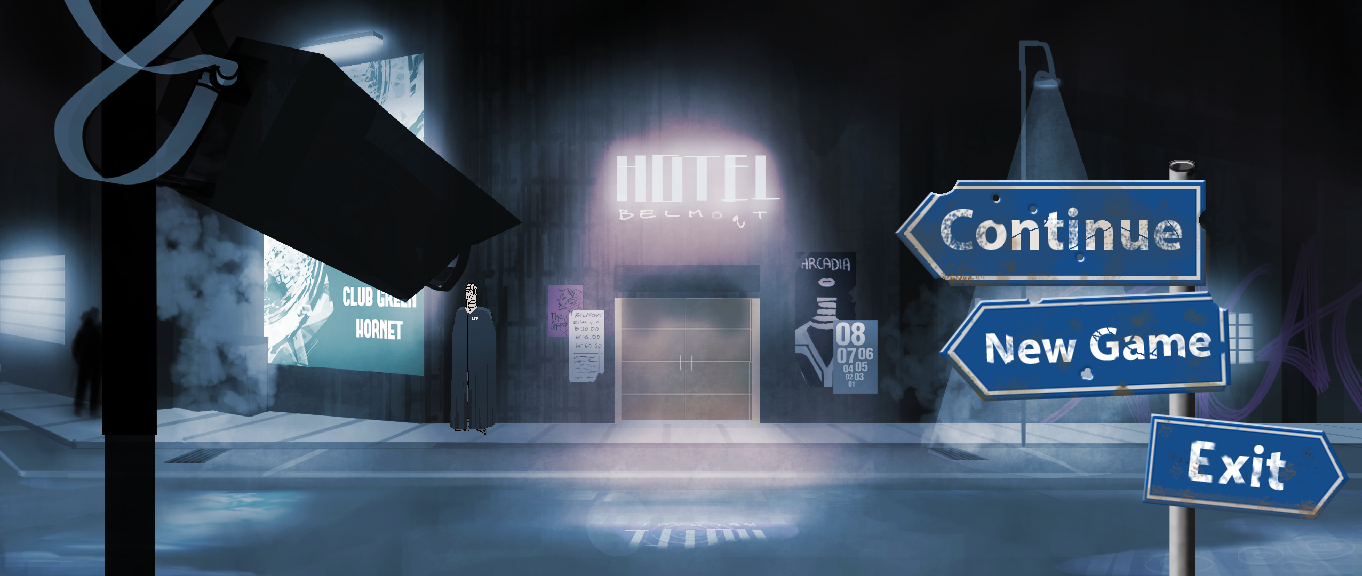
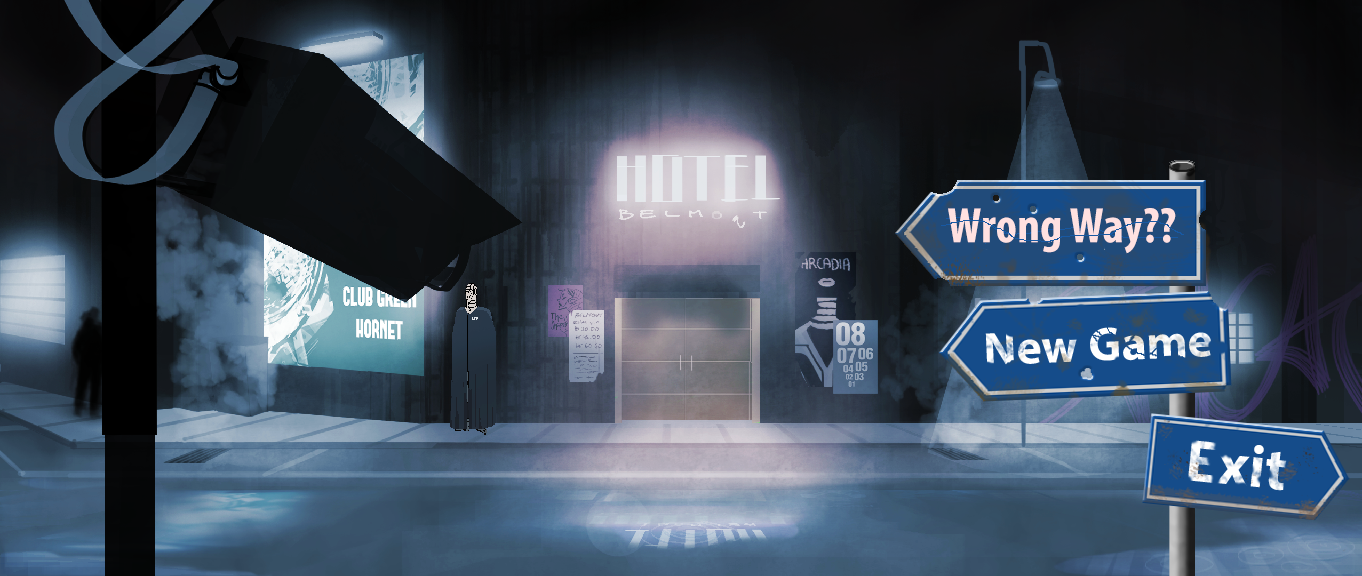
Menu updated

Changed region(s): [[0.6784, 0.3438, 0.8634, 0.4375]]

diff --git a/Forgotten/Forgotten/MainMenu.cpp b/Forgotten/Forgotten/MainMenu.cpp
@@ -1,15 +1,32 @@
 #include "MainMenu.h"
 
-MainMenu::MainMenu() : m_over(false)
+MainMenu::MainMenu(MouseHandler& mouse) : m_newGame(false), m_exit(false), m_continue(false), m_mouse(mouse)
 {
 	LoadImage();
 	//// Set the view size
 	m_view.setSize(1024, 576);
 	m_view.setCenter(855, 288);
+	SetRects();
 }
 
-bool MainMenu::IsOver(){
-	return m_over;
+bool MainMenu::NewGame()
+{
+	return m_newGame;
+}
+
+bool MainMenu::Exit()
+{
+	return m_exit;
+}
+
+bool MainMenu::Continue()
+{
+	return m_continue;
+}
+
+void MainMenu::IsOver(int i)
+{
+
 }
 
 void MainMenu::LoadImage()
@@ -18,14 +35,11 @@ void MainMenu::LoadImage()
 	m_sprite.setTexture(m_texture);
 }
 
-sf::IntRect MainMenu::GetRect()
+void MainMenu::SetRects()
 {
-	m_shape.setFillColor(sf::Color::Blue);
-	m_shape.setSize(sf::Vector2f(200, 100));
-	m_shape.setPosition(400.f, 200.f);
-	sf::IntRect rect = sf::IntRect(m_shape.getPosition().x, m_shape.getPosition().y, m_shape.getSize().x, m_shape.getSize().y);
-	m_shape.setTextureRect(rect);
-	return m_shape.getTextureRect();
+	m_newGameRect = sf::IntRect(950, 300, 270, 100);
+	m_exitRect = sf::IntRect(1150, 440, 200, 80);
+	m_continueRect = sf::IntRect(930, 180, 270, 100);
 }
 
 void MainMenu::Render(sf::RenderWindow& window)
@@ -33,14 +47,17 @@ void MainMenu::Render(sf::RenderWindow& window)
 	// Clear the screen 
 	window.clear(sf::Color(0, 0, 0));
 
-	IsOverSign(window);
+
+	window.setMouseCursorVisible(false);
 
 	// Set the game view again
 	window.setView(m_view);
 
 	window.draw(m_sprite);
 
-	window.draw(m_shape);
+	m_mouse.Render();
+
+	IsOverSign(window);
 
 	// Display all rendered items
 	window.display();
@@ -48,14 +65,25 @@ void MainMenu::Render(sf::RenderWindow& window)
 
 void MainMenu::Process()
 {
-	GetRect();
+	m_mouse.SetCursor(0);
+	m_mouse.Update();
 }
 
 void MainMenu::IsOverSign(sf::RenderWindow& window)
 {
-	if(m_shape.getTextureRect().contains(window.convertCoords(sf::Mouse::getPosition(window), m_view).x, window.convertCoords(sf::Mouse::getPosition(window), m_view).y)){
-		m_over = true;
+	if(m_newGameRect.contains(window.convertCoords(sf::Mouse::getPosition(window), m_view).x, window.convertCoords(sf::Mouse::getPosition(window), m_view).y) && m_mouse.mouse1WasPressed()){
+		m_newGame = true;
 	}else{
-		m_over = false;
+		m_newGame = false;
 	}
+	if(m_exitRect.contains(window.convertCoords(sf::Mouse::getPosition(window), m_view).x, window.convertCoords(sf::Mouse::getPosition(window), m_view).y) && m_mouse.mouse1WasPressed()){
+		m_exit = true;
+	}else{
+		m_exit = false;
+	}
+	//if(m_continueRect.contains(window.convertCoords(sf::Mouse::getPosition(window), m_view).x, window.convertCoords(sf::Mouse::getPosition(window), m_view).y)){
+	//	m_continue = true;
+	//}else{
+	//	m_continue = false;
+	//}
 }

diff --git a/Forgotten/Forgotten/MainMenu.h b/Forgotten/Forgotten/MainMenu.h
@@ -1,29 +1,44 @@
 #ifndef INCLUDED_MAINMENU
 #define INCLUDED_MAINMENU
 
+#include "Menu.h"
 #include "MouseHandler.h"
+#include <vector>
 #include <SFML\Graphics.hpp>
 
 class MainMenu{
 public:
-	MainMenu();
+	MainMenu(MouseHandler& mouse);
 	void Render(sf::RenderWindow& window);
 	void Process();
-	sf::IntRect GetRect();
 	void IsOverSign(sf::RenderWindow& window);
-	bool IsOver();
+	void IsOver(int i);
+	bool GetButton();
+	bool NewGame();
+	bool Exit();
+	bool Continue();
 private:
+	void SetRects();
 	void LoadImage();
 	void PushMenu();
 	sf::Texture m_texture;
 	sf::Sprite m_sprite;
 	sf::Text m_text;
+
 	sf::IntRect m_continueRect;
+	sf::IntRect m_newGameRect;
+	sf::IntRect m_exitRect;
+
+	bool m_newGame;
+	bool m_exit;
+	bool m_continue;
+
 	sf::Sprite GetSprite();
 	sf::View m_defaultView;
 	sf::View m_view;
 	sf::RectangleShape m_shape;
-	bool m_over;
+
+	MouseHandler& m_mouse;
 };
 
 #endif

diff --git a/Forgotten/Forgotten/RenderStates.cpp b/Forgotten/Forgotten/RenderStates.cpp
@@ -1,6 +1,6 @@
 #include "RenderStates.h"
 
-RenderStates::RenderStates(State aState) : m_state(aState)
+RenderStates::RenderStates(State aState) : m_state(aState), m_menu(GameManager::GetInstance()->GetMouseHandler())
 {
 	GameManager* gameManager;
 	GameManager::GetInstance()->GetWindow();
@@ -22,16 +22,27 @@ void RenderStates::RenderState()
 	case RenderState::Settings:
 
 		break;
+
+	case RenderState::Exit:
+		GetWindow().close();
+		break;
 	}
 }
 
 void RenderStates::ChangeState()
 {
-	if(m_menu.IsOver())
+	if(m_menu.NewGame())
 	{
 		m_state = RenderState::Game;
 	}
-
+	if(m_menu.Exit())
+	{
+		m_state = RenderState::Exit;
+	}
+	if(m_menu.Continue())
+	{
+		m_state = RenderState::Game;
+	}
 }
 
 sf::RenderWindow& RenderStates::GetWindow()

diff --git a/Forgotten/Forgotten/RenderStates.h b/Forgotten/Forgotten/RenderStates.h
@@ -7,7 +7,7 @@
 
 class RenderStates{
 public:
-	typedef enum RenderState{Menu, Game, Settings} State;
+	typedef enum RenderState{Menu, Game, Settings, Exit} State;
 	RenderStates(State aState);
 	RenderStates::RenderState GetRenderStates();
 	sf::RenderWindow& GetWindow();

diff --git a/Forgotten/Forgotten/Main.cpp b/Forgotten/Forgotten/Main.cpp
@@ -21,6 +21,7 @@ int main()
 					renderStates->SetRenderState(RenderStates::RenderState::Menu);
 				}
 			default:
+				//Wrong I guess!!??!
 				break;
 			}
 
